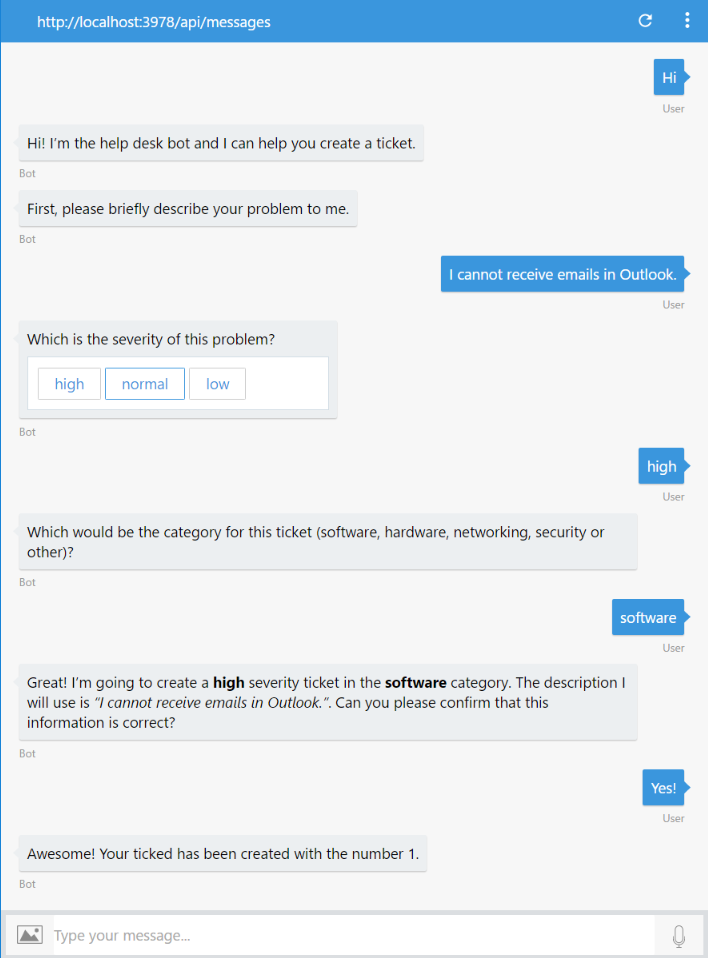
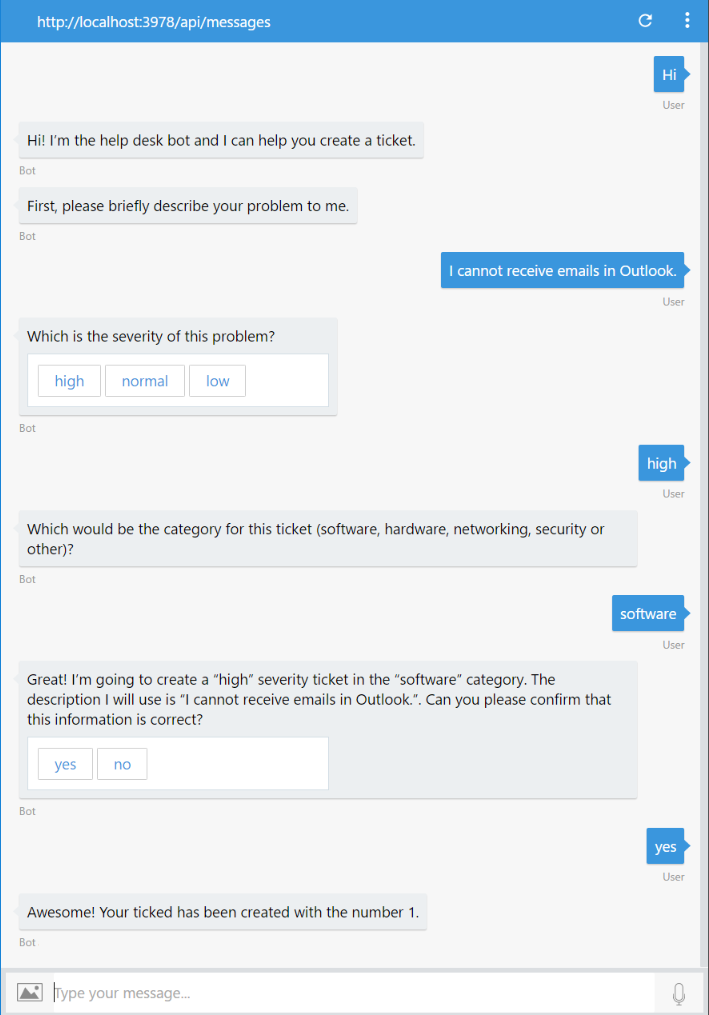
Update Button confirmation message layout and screenshot.

diff --git a/Node/exercise2-TicketSubmissionDialog/app.js b/Node/exercise2-TicketSubmissionDialog/app.js
@@ -46,10 +46,10 @@ var bot = new builder.UniversalBot(connector, [
     (session, result, next) => {
         session.dialogData.category = result.response;
 
-        var message = `Great! I'm going to create a **${session.dialogData.severity}** severity ticket in the **${session.dialogData.category}** category. ` +
-                      `The description I will use is _"${session.dialogData.description}"_. Can you please confirm that this information is correct?`;
+        var message = `Great! I'm going to create a "${session.dialogData.severity}" severity ticket in the "${session.dialogData.category}" category. ` +
+                      `The description I will use is "${session.dialogData.description}". Can you please confirm that this information is correct?`;
 
-        builder.Prompts.confirm(session, message);
+        builder.Prompts.confirm(session, message, { listStyle: builder.ListStyle.button });
     },
     (session, result, next) => {
 
@@ -81,7 +81,7 @@ var bot = new builder.UniversalBot(connector, [
 ]);
 
 const createCard = (ticketId, data) => {
-    var cardTxt = fs.readFileSync('./cards/ticket.json', 'UTF-8');
+    var cardTxt = fs.readFileSync('C:/projects/help-desk-bot-lab/Node/exercise2-TicketSubmissionDialog/cards/ticket.json', 'UTF-8');
 
     cardTxt = cardTxt.replace(/{ticketId}/g, ticketId)
                     .replace(/{severity}/g, data.severity)

diff --git a/Node/exercise7-HandOffToHuman/app.js b/Node/exercise7-HandOffToHuman/app.js
@@ -130,10 +130,10 @@ bot.dialog('SubmitTicket', [
             session.dialogData.category = result.response;
         }
 
-        var message = `Great! I'm going to create a **${session.dialogData.severity}** severity ticket in the **${session.dialogData.category}** category. ` +
-                      `The description I will use is _"${session.dialogData.description}"_. Can you please confirm that this information is correct?`;
+        var message = `Great! I'm going to create a "${session.dialogData.severity}" severity ticket in the "${session.dialogData.category}" category. ` +
+                      `The description I will use is "${session.dialogData.description}". Can you please confirm that this information is correct?`;
 
-        builder.Prompts.confirm(session, message);
+        builder.Prompts.confirm(session, message, { listStyle: builder.ListStyle.button });
     },
     (session, result, next) => {
         if (result.response) {

diff --git a/Node/exercise8-BackChannel/app.js b/Node/exercise8-BackChannel/app.js
@@ -144,10 +144,10 @@ bot.dialog('SubmitTicket', [
             session.dialogData.category = result.response;
         }
 
-        var message = `Great! I'm going to create a **${session.dialogData.severity}** severity ticket in the **${session.dialogData.category}** category. ` +
-                      `The description I will use is _"${session.dialogData.description}"_. Can you please confirm that this information is correct?`;
+        var message = `Great! I'm going to create a "${session.dialogData.severity}" severity ticket in the "${session.dialogData.category}" category. ` +
+                      `The description I will use is "${session.dialogData.description}". Can you please confirm that this information is correct?`;
 
-        builder.Prompts.confirm(session, message);
+        builder.Prompts.confirm(session, message, { listStyle: builder.ListStyle.button });
     },
     (session, result, next) => {
         if (result.response) {

diff --git a/Node/exercise3-LuisDialog/app.js b/Node/exercise3-LuisDialog/app.js
@@ -85,10 +85,10 @@ bot.dialog('SubmitTicket', [
             session.dialogData.category = result.response;
         }
 
-        var message = `Great! I'm going to create a **${session.dialogData.severity}** severity ticket in the **${session.dialogData.category}** category. ` +
-                      `The description I will use is _"${session.dialogData.description}"_. Can you please confirm that this information is correct?`;
+        var message = `Great! I'm going to create a "${session.dialogData.severity}" severity ticket in the "${session.dialogData.category}" category. ` +
+                      `The description I will use is "${session.dialogData.description}". Can you please confirm that this information is correct?`;
 
-        builder.Prompts.confirm(session, message);
+        builder.Prompts.confirm(session, message, { listStyle: builder.ListStyle.button });
     },
     (session, result, next) => {
         if (result.response) {

diff --git a/Node/exercise4-KnowledgeBase/app.js b/Node/exercise4-KnowledgeBase/app.js
@@ -91,10 +91,10 @@ bot.dialog('SubmitTicket', [
             session.dialogData.category = result.response;
         }
 
-        var message = `Great! I'm going to create a **${session.dialogData.severity}** severity ticket in the **${session.dialogData.category}** category. ` +
-                      `The description I will use is _"${session.dialogData.description}"_. Can you please confirm that this information is correct?`;
+        var message = `Great! I'm going to create a "${session.dialogData.severity}" severity ticket in the "${session.dialogData.category}" category. ` +
+                      `The description I will use is "${session.dialogData.description}". Can you please confirm that this information is correct?`;
 
-        builder.Prompts.confirm(session, message);
+        builder.Prompts.confirm(session, message, { listStyle: builder.ListStyle.button });
     },
     (session, result, next) => {
         if (result.response) {

diff --git a/Node/exercise6-MoodDetection/app.js b/Node/exercise6-MoodDetection/app.js
@@ -96,10 +96,10 @@ bot.dialog('SubmitTicket', [
             session.dialogData.category = result.response;
         }
 
-        var message = `Great! I'm going to create a **${session.dialogData.severity}** severity ticket in the **${session.dialogData.category}** category. ` +
-                      `The description I will use is _"${session.dialogData.description}"_. Can you please confirm that this information is correct?`;
+        var message = `Great! I'm going to create a "${session.dialogData.severity}" severity ticket in the "${session.dialogData.category}" category. ` +
+                      `The description I will use is "${session.dialogData.description}". Can you please confirm that this information is correct?`;
 
-        builder.Prompts.confirm(session, message);
+        builder.Prompts.confirm(session, message, { listStyle: builder.ListStyle.button });
     },
     (session, result, next) => {
         if (result.response) {

diff --git a/Node/exercise2-TicketSubmissionDialog.md b/Node/exercise2-TicketSubmissionDialog.md
@@ -81,10 +81,10 @@ In this task you are going to add more message handlers to the bot waterfall to 
         (session, result, next) => {
             session.dialogData.category = result.response;
 
-            var message = `Great! I'm going to create a **${session.dialogData.severity}** severity ticket in the **${session.dialogData.category}** category. ` +
-                      `The description I will use is _"${session.dialogData.description}"_. Can you please confirm that this information is correct?`;
+            var message = `Great! I'm going to create a "${session.dialogData.severity}" severity ticket in the "${session.dialogData.category}" category. ` +
+                      `The description I will use is "${session.dialogData.description}". Can you please confirm that this information is correct?`;
 
-            builder.Prompts.confirm(session, message);
+            builder.Prompts.confirm(session, message, { listStyle: builder.ListStyle.button });
         },
         (session, result, next) => {
             if (result.response) {

diff --git a/Node/exercise3-LuisDialog.md b/Node/exercise3-LuisDialog.md
@@ -211,10 +211,10 @@ Now you will refactor the waterfall steps from exercise 2 into new dialogs that 
             session.dialogData.category = result.response;
         }
 
-        var message = `Great! I'm going to create a **${session.dialogData.severity}** severity ticket in the **${session.dialogData.category}** category. ` +
-                      `The description I will use is _"${session.dialogData.description}"_. Can you please confirm that this information is correct?`;
+        var message = `Great! I'm going to create a "${session.dialogData.severity}" severity ticket in the "${session.dialogData.category}" category. ` +
+                      `The description I will use is "${session.dialogData.description}". Can you please confirm that this information is correct?`;
 
-        builder.Prompts.confirm(session, message);
+        builder.Prompts.confirm(session, message, { listStyle: builder.ListStyle.button });
     },
     ...
     ```
